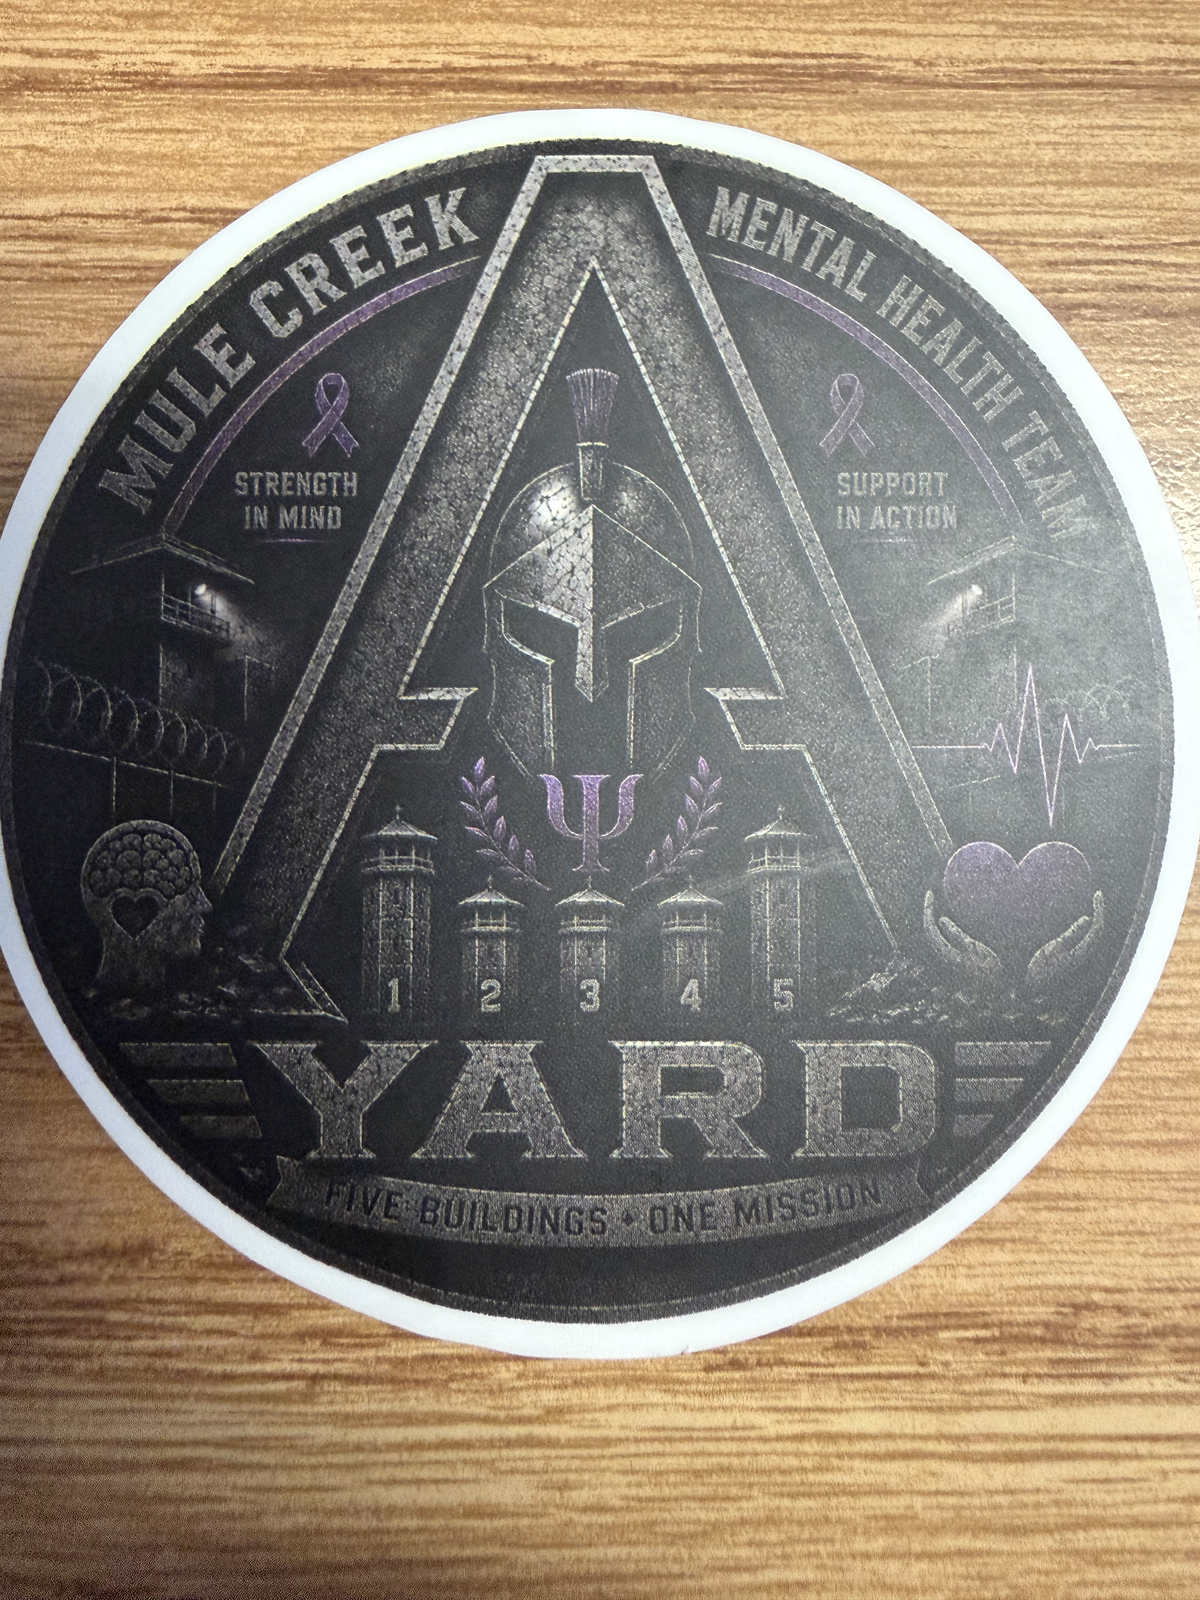
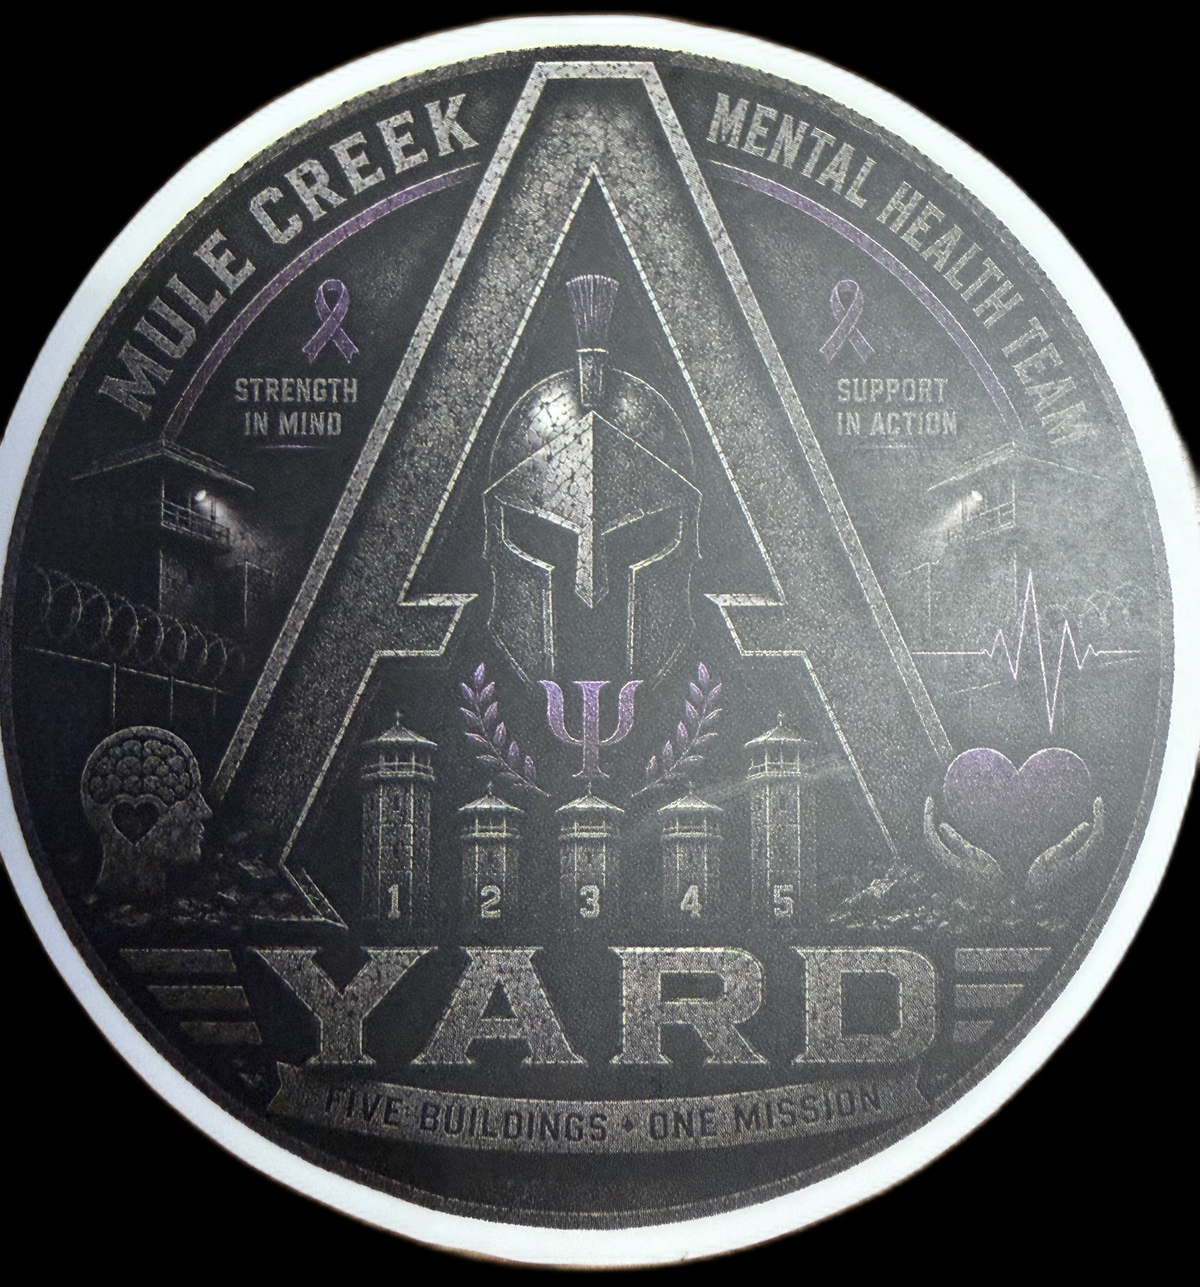
auto-commit for 32d37f9f-5777-4dad-a693-523d432993ae

diff --git a/memory/PRD.md b/memory/PRD.md
@@ -1,53 +1,64 @@
-# A Yard Apparel — Product Requirements Document
+# AEGIS — Strength in Order
 
-## Original Problem Statement
-> "I need you to make a new github git and im trying to build a webpage for a clothing line business that is for law enforcement, but more specifically CDCR. Here is two pictures of stickers that were made. They are stickers that were made for officers at Mule Creek State Prison on A yard which is a level 4 yard that has been rough with lots of attempted murders and stabbings and code 2 and code 3 riots. we are making this clothing line to get some comradery on the yard with the officers. i need a FULL BLOWN WEBSITE that stays with the awesome theme of these stickers. I want to be able to order from the website as well. I really need the page to be VISUALLY STUNNING AND AMAZING. This is the first website i will be building and selling for my business so it needs to be completely laced up and amazing."
-
-## User Choices (gathered Feb 2026)
-- **Brand name**: A Yard Apparel
-- **Product types**: T-shirts, Hoodies, Hats, Beanies, Stickers, Patches, Challenge Coins, Tumblers
-- **Payments**: Both — Stripe checkout + manual reserve flow
-- **Crests / designs to feature**: Dumpster Fire Response Team (A Yard custody), Mental Health Team, B Yard, C Yard, D Yard, E Yard, ISU, Control Booths, A Yard Medical, TTA, Yard Clinics
-- **GitHub repo**: `mrnickrushing/A-Yard-Apparel.git` (user owns it; project is push-ready)
+## Brand
+- **Name**: AEGIS
+- **Tagline**: Strength in Order
+- **Hero copy**: "Built through adversity. Forged through leadership."
+- **Origin tag**: "Built by the line. For the line."
+- **Mission**: More than a brand. It's a mindset. It's a way of life. Identity, belonging, earning your place.
 
 ## Architecture
-- **Frontend**: React 19 + Tailwind + Shadcn UI, react-router-dom 7
+- **Frontend**: React 19 + Tailwind + Shadcn UI, react-router-dom 7, framer-motion-style CSS animations
 - **Backend**: FastAPI + Motor (MongoDB) + emergentintegrations Stripe Checkout
-- **DB**: MongoDB (products, orders, payment_transactions, newsletter)
-- **Payment**: Stripe (sk_test_emergent test key) + manual "Reserve" flow
-- **Design system**: Gritty tactical / military aesthetic — gunmetal dark palette, fire orange (#FF4500) & purple (#8B5FBF) accents, Anton display font, IBM Plex Mono labels, grain texture, sharp 1px borders, no border-radius.
+- **Auth**: None — guest checkout only (no accounts in v1)
+- **Payments**: Stripe live (test key `sk_test_emergent` for dev) + manual "Reserve" flow
+- **Seed system**: SEED_VERSION bump drops + reseeds products & campaigns
 
-## Personas
-1. **Active CDCR officer (primary)**: works the line at MCSP or another yard, wants gear that reps their unit/crest with respect & pride. Mobile-first, in-out browsing.
-2. **Retired officer / supporter**: buying as a gift or memento. Wants quality + story.
-3. **Clinician / medical staff**: Mental Health Team, TTA, A Yard Medical. Wants designs that honor their role.
+## Divisions (data model)
+1. **CORE** — public, purchasable, steel-blue accent (#4A7FC1)
+   - Tactical White Tee · Tactical Black Tee · CORE Hoodie · CORE Flexfit Cap
+2. **LEGACY** — award-only, gold accent (#D4AF37)
+   - Foundation Piece (numbered) · Dumpster Fire Patch · Mental Health Patch · A-Yard Legacy Sticker · Mental Health Legacy Sticker
+   - Unlocked via redeem codes (`AYARD-MCSP-2024`, `MHT-CLINICIAN-2024`, `FOUNDATION-001`, `BUILT-ON-DISCIPLINE`)
 
-## Implemented (Feb 2026 — Day 1)
-- ✅ Full backend (server.py): products, filters, single product, checkout/quote, checkout/session (Stripe), checkout/status, webhook/stripe, manual orders, newsletter, auto-seeding of 88 products (11 designs × 8 categories).
-- ✅ Home (hero, marquee, bento featured crests, featured products, units grid, value props, CTA)
-- ✅ Shop with filters (category, crest, unit) + URL-state filters
-- ✅ Product detail with size/color/qty + add-to-cart + buy-now
-- ✅ Cart drawer with localStorage persistence
-- ✅ Checkout (Stripe + manual reserve), Success page with polling
-- ✅ About / Story page
-- ✅ Header (with mobile menu), Footer (newsletter + social), Toaster
-- ✅ Tactical theme: Anton display font, grain, brushed metal, corners, marquee, tactical stripes
-- ✅ Two original sticker images converted from HEIC → PNG, rendered prominently in bento + product cards
-- ✅ 100% E2E backend + frontend tests passing
+## Campaigns (mission files)
+- **001 A-YARD** — Mule Creek Five Buildings / One Mission (active, gold)
+- **002 EOP** — Mental Health × Custody (active, red)
+- **003 BUILDING 5** — The Standard Lives Here (active, green)
+- **004 LOCKED** — coming soon
+- **005 CLASSIFIED** — redacted
+
+## Routes
+- `/` — Splash gate (video-game boot sequence + ENTER button)
+- `/home` — main landing
+- `/core` — Core Division catalog
+- `/legacy` — Legacy Division manifest + redeem + petition
+- `/campaigns` / `/campaigns/:slug` — mission files
+- `/product/:slug` — product detail (with legacy unlock flow if award-only)
+- `/checkout`, `/success`
+- `/logbook` — field records
+- `/contact` — comms form
+
+## Implemented (Feb 2026 — v1)
+- Splash gate with boot sequence + animated ENTER button
+- AEGIS rebrand: Cinzel display font, etched gold + steel-blue theme, antique HUD aesthetic
+- Two-division architecture (CORE / LEGACY) with separate visuals & data
+- Legacy redeem code system (POST /api/legacy/redeem) with localStorage persistence + petition form
+- Campaigns system with 5 cards (active / locked / classified states)
+- Product detail with size/color/qty, award-only gating, redeem inline
+- Cart + Stripe + Manual order checkout (re-themed gold)
+- Logbook + Contact form
+- 5 pillars footer (Discipline / Unity / Hold the Line / Earned Never Issued / Strength in Order)
+- Newsletter "Join the Order"
+- **100% E2E tests passing** (19/19 backend, all frontend flows)
 
 ## Pending / Backlog
-- **P1**: Real product photography (currently sticker art is the hero — fine for launch, but mockup tees would lift conversion)
-- **P1**: Push to GitHub repo `mrnickrushing/A-Yard-Apparel.git` (user can do this from Emergent UI or main agent on request)
-- **P1**: Connect real Stripe live key for production sales
-- **P2**: Order tracking / customer accounts (currently guest-checkout only)
-- **P2**: Admin dashboard to manage products/inventory/orders
-- **P2**: Bulk / unit-discount pricing (groups of 5+ for crew orders)
-- **P2**: Discount codes (e.g. ROLLCALL10)
-- **P3**: Real product imagery (apparel mockups), social proof / customer photos
-- **P3**: Wholesale / unit bulk order request form
-
-## Next Tasks
-1. Real garment mockup photos for shirts/hoodies
-2. Push to GitHub repo
-3. Switch to live Stripe key when ready to launch
-4. Add admin order management
+- **P1**: Push to user's repo `mrnickrushing/A-Yard-Apparel.git` (or rename to `AEGIS-Apparel`)
+- **P1**: Real Stripe live key (when launching)
+- **P1**: More CORE products (Tactical Black Hoodie, beanies, etc.)
+- **P2**: Admin order dashboard + redeem-code management UI
+- **P2**: Customer accounts (track legacy unlocks across devices)
+- **P2**: Bulk / unit-order request flow (10+ for crews)
+- **P2**: Sound design on splash gate (optional ambient hum on enter)
+- **P3**: Email transactional templates (order confirmation, petition received)
+- **P3**: Real apparel mockup imagery for hoodies & hats